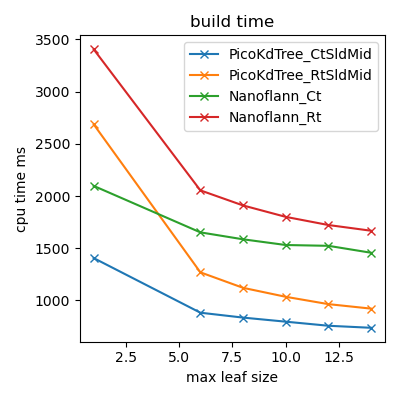
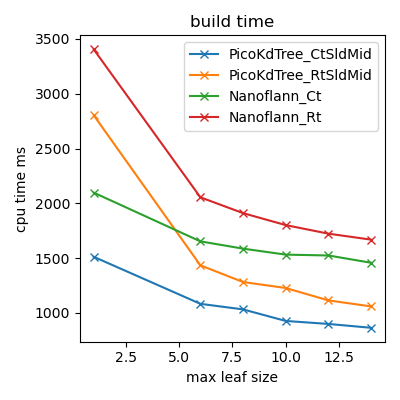
Version and benchmark update.

diff --git a/setup.py b/setup.py
@@ -34,7 +34,7 @@ def compile_cmake_args():
 
 setup(name='pico_tree',
       # The same as the CMake project version.
-      version='0.7.2',
+      version='0.7.3',
       description='PicoTree Python Bindings',
       author='Jonathan Broere',
       url='https://github.com/Jaybro/pico_tree',

diff --git a/README.md b/README.md
@@ -13,7 +13,7 @@ See the table below to get an impression of the performance provided by the [KdT
 | [SciPy cKDTree][spck] v1.5.0        | ...       | 5.0s          | ...        | 547.2s      |
 | [Scikit-learn KDTree][skck] 0.22.2  | ...       | 12.2s         | ...        | 44.5s       |
 | [OpenCV FLANN][cvfn] 4.5.2          | 1.9s      | ...           | 4.7s       | ...         |
-| PicoTree KdTree v0.7.2              | 0.8s      | 1.0s          | 3.0s       | 3.9s        |
+| PicoTree KdTree v0.7.3              | 0.9s      | 1.1s          | 2.8s       | 3.3s        |
 
 It compares the performance of the build and query algorithms using two [LiDAR](./docs/benchmark.md) based point clouds of sizes 7733372 and 7200863. The first is used to compare build times and both are used to compare query times. All benchmarks were generated with the following parameters: `max_leaf_size=10`, `knn=1` and `OMP_NUM_THREADS=1`. Note that a different C++ back-end was used for each of the `Knn C++` and `Knn Python` benchmarks. This means that they shouldn't be compared directly. See the [Python comparison](./examples/python/kd_tree.py) for more details. A more detailed [C++ comparison](./docs/benchmark.md) of PicoTree is available with respect to [nanoflann][nano].
 

diff --git a/docs/benchmark.md b/docs/benchmark.md
@@ -2,6 +2,8 @@
 
 One of the PicoTree examples is a small [benchmark](../examples/benchmark/) that compares the KdTree of this library with that of [nanoflann](https://github.com/jlblancoc/nanoflann). This page describes the benchmark output and how to reproduce the exact same input that was used for benchmarking.
 
+Results were generated on: 24-05-2021 using MinGW GCC 10.1 using PicoTree 0.7.3.
+
 # Data sets
 
 The [Robotic 3D Scan Repository](http://kos.informatik.uni-osnabrueck.de/3Dscans/) provides several 3D point clouds that have been generated using a LiDAR scanner. The following has been used for the comparison benchmark:
@@ -24,8 +26,6 @@ The running time of the benchmark was kept reasonable by using two subsets of po
 * Part 2: 7200863 points.
 
 Both parts are 360 degree scans taken from different positions. The first is used to build a tree and the second for querying that tree. Note that each run time describes a single invocation of a build algorithm and n invocations of the others.
-
-Results were generated on: 01-05-2021 using MinGW GCC 10.1.
 
 ![Build Time](./images/benchmark_gauss_build_time.png)![Radius Search Time](./images/benchmark_gauss_radius_search_time.png)
 
